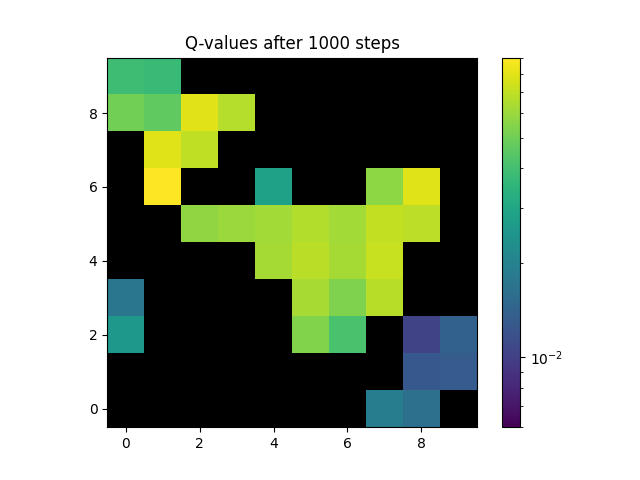
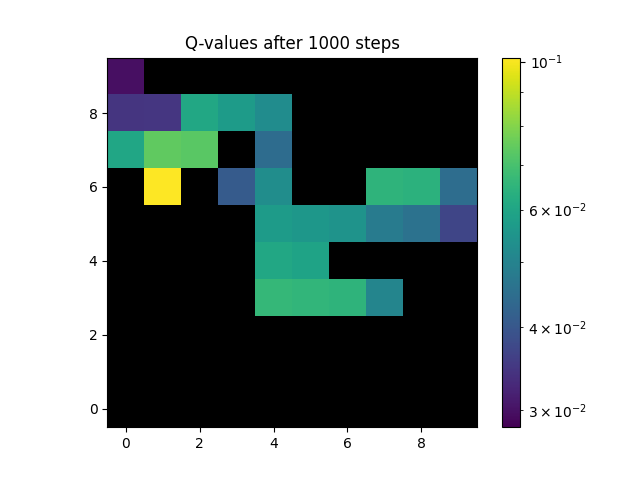
Added stochasticity = 0.5, so updates stochastic env graphs

diff --git a/src/envs/discrete_gridworld.py b/src/envs/discrete_gridworld.py
@@ -194,7 +194,7 @@ class StochasticDiscreteGridWorld(DiscreteGridWorld):
                  obstacles: np.ndarray = None,
                  goal_region_min_size: float = 0.25,
                  seed: int = 42,
-                 stochasticity=0.,
+                 stochasticity=0.5,
                  ):
 
         super().__init__(size, max_steps, render_mode, obstacles, goal_region_min_size, seed)

diff --git a/src/test_Tabular_DynaQ_plus.py b/src/test_Tabular_DynaQ_plus.py
@@ -5,7 +5,7 @@ from algorithms.tabular_dynaQ_plus import Tabular_DynaQ_plus
 from envs.discrete_gridworld import DiscreteGridWorld
 from envs.discrete_gridworld import StochasticDiscreteGridWorld
 
-N_TRAINING_STEPS = 10_000
+N_TRAINING_STEPS = 20_000
 EVAL_STEP_INTERVAL = N_TRAINING_STEPS // 100
 
 ### Deterministic environment
